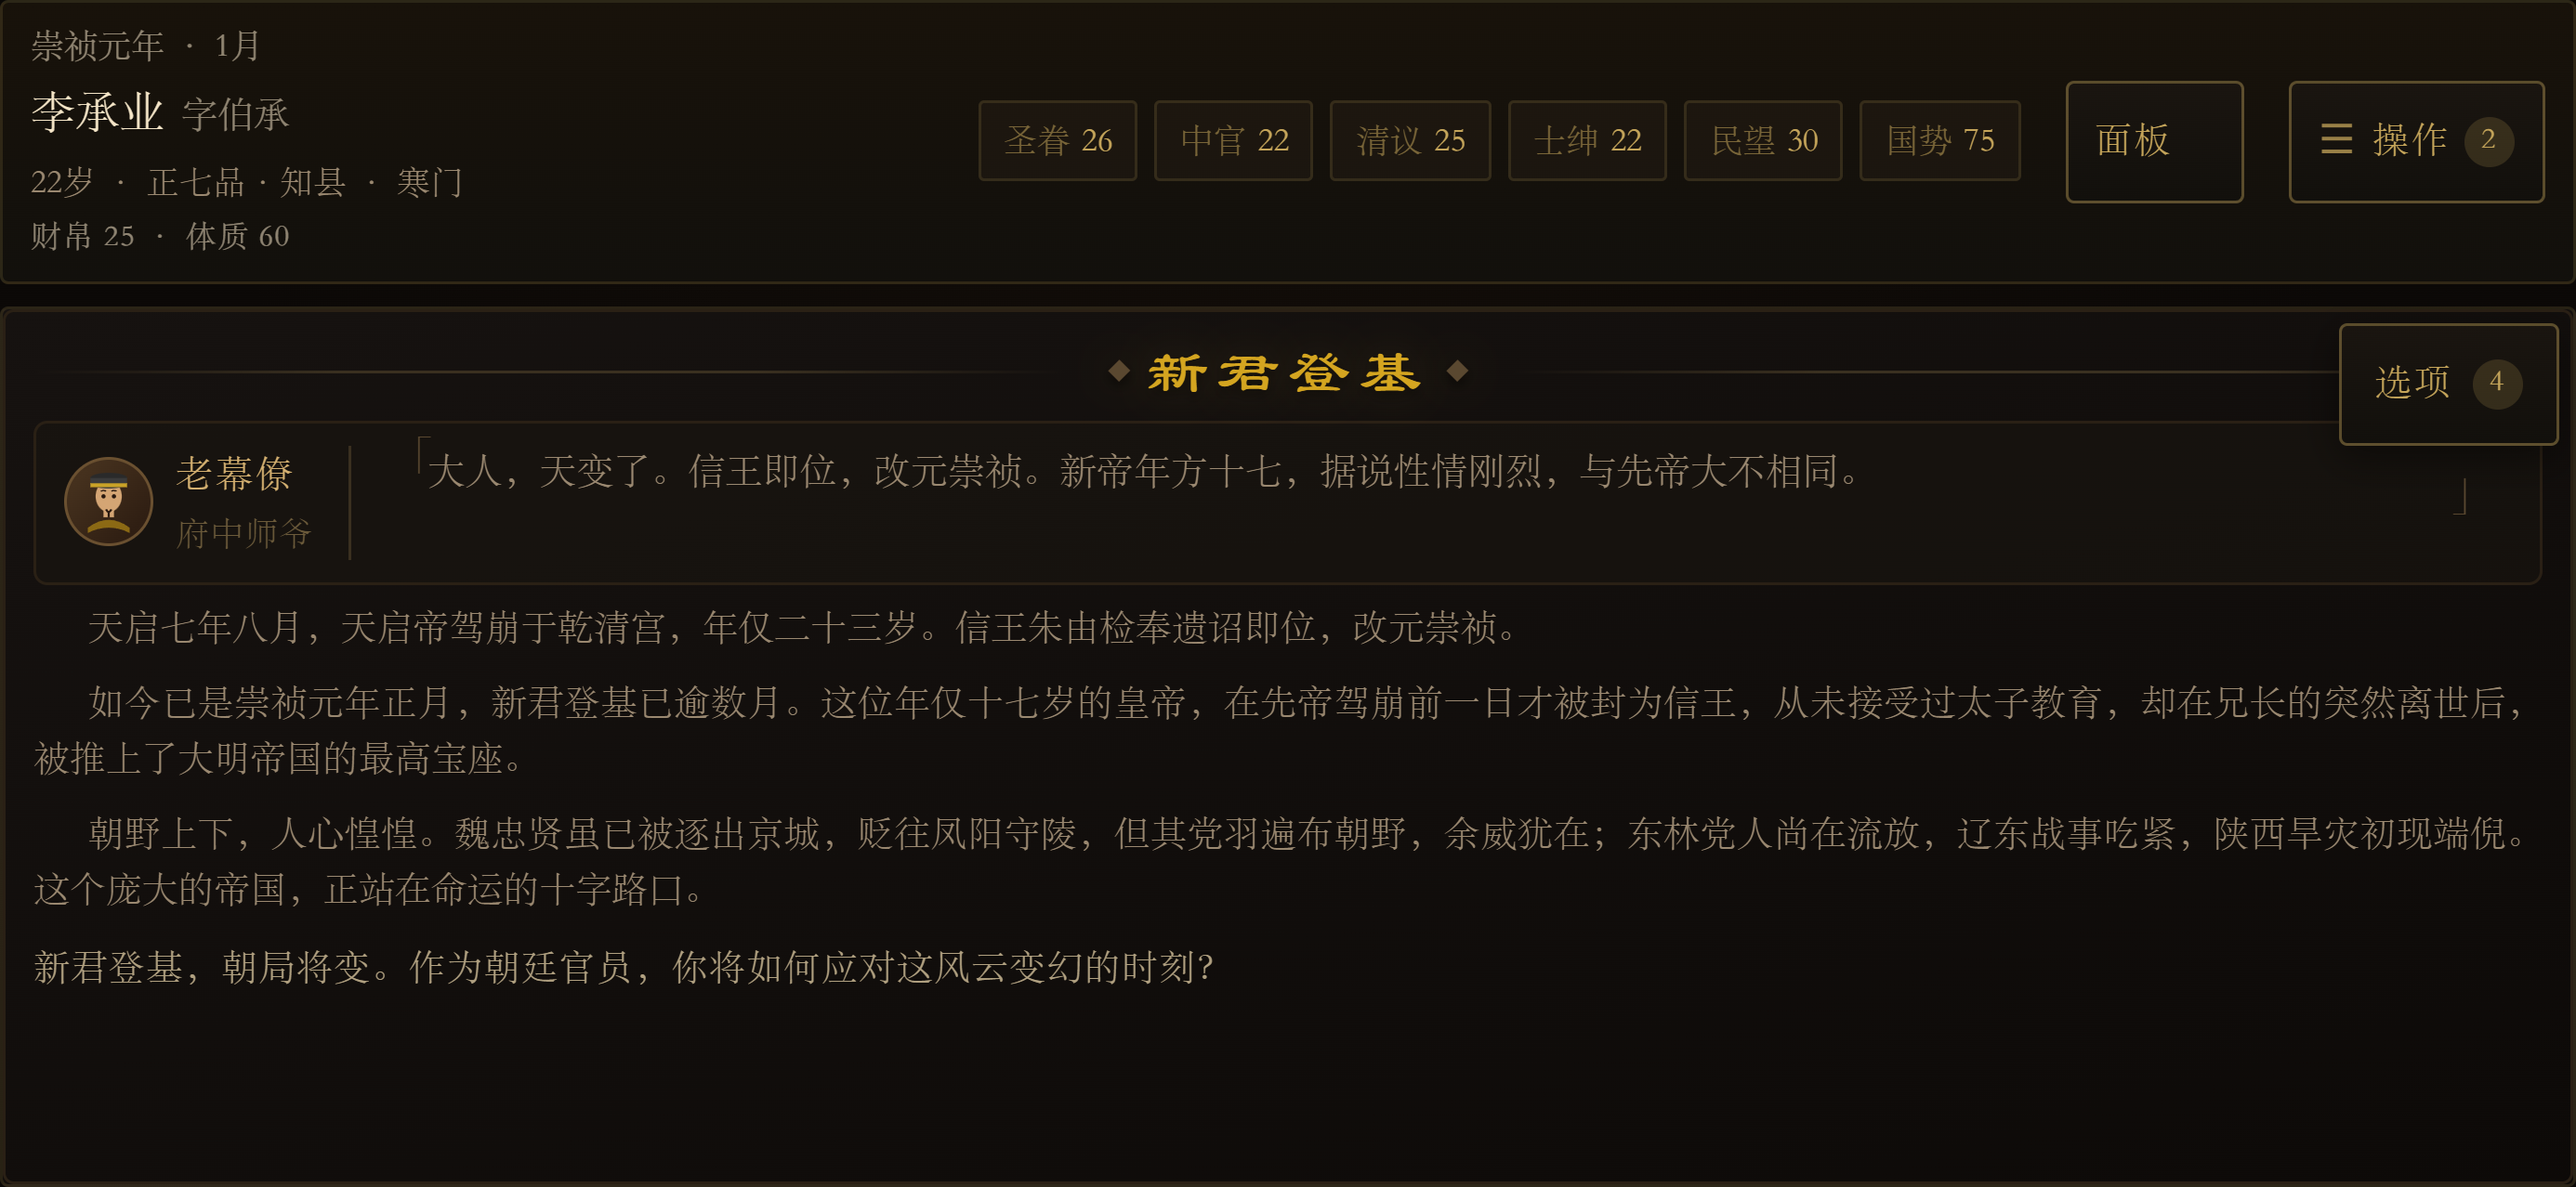
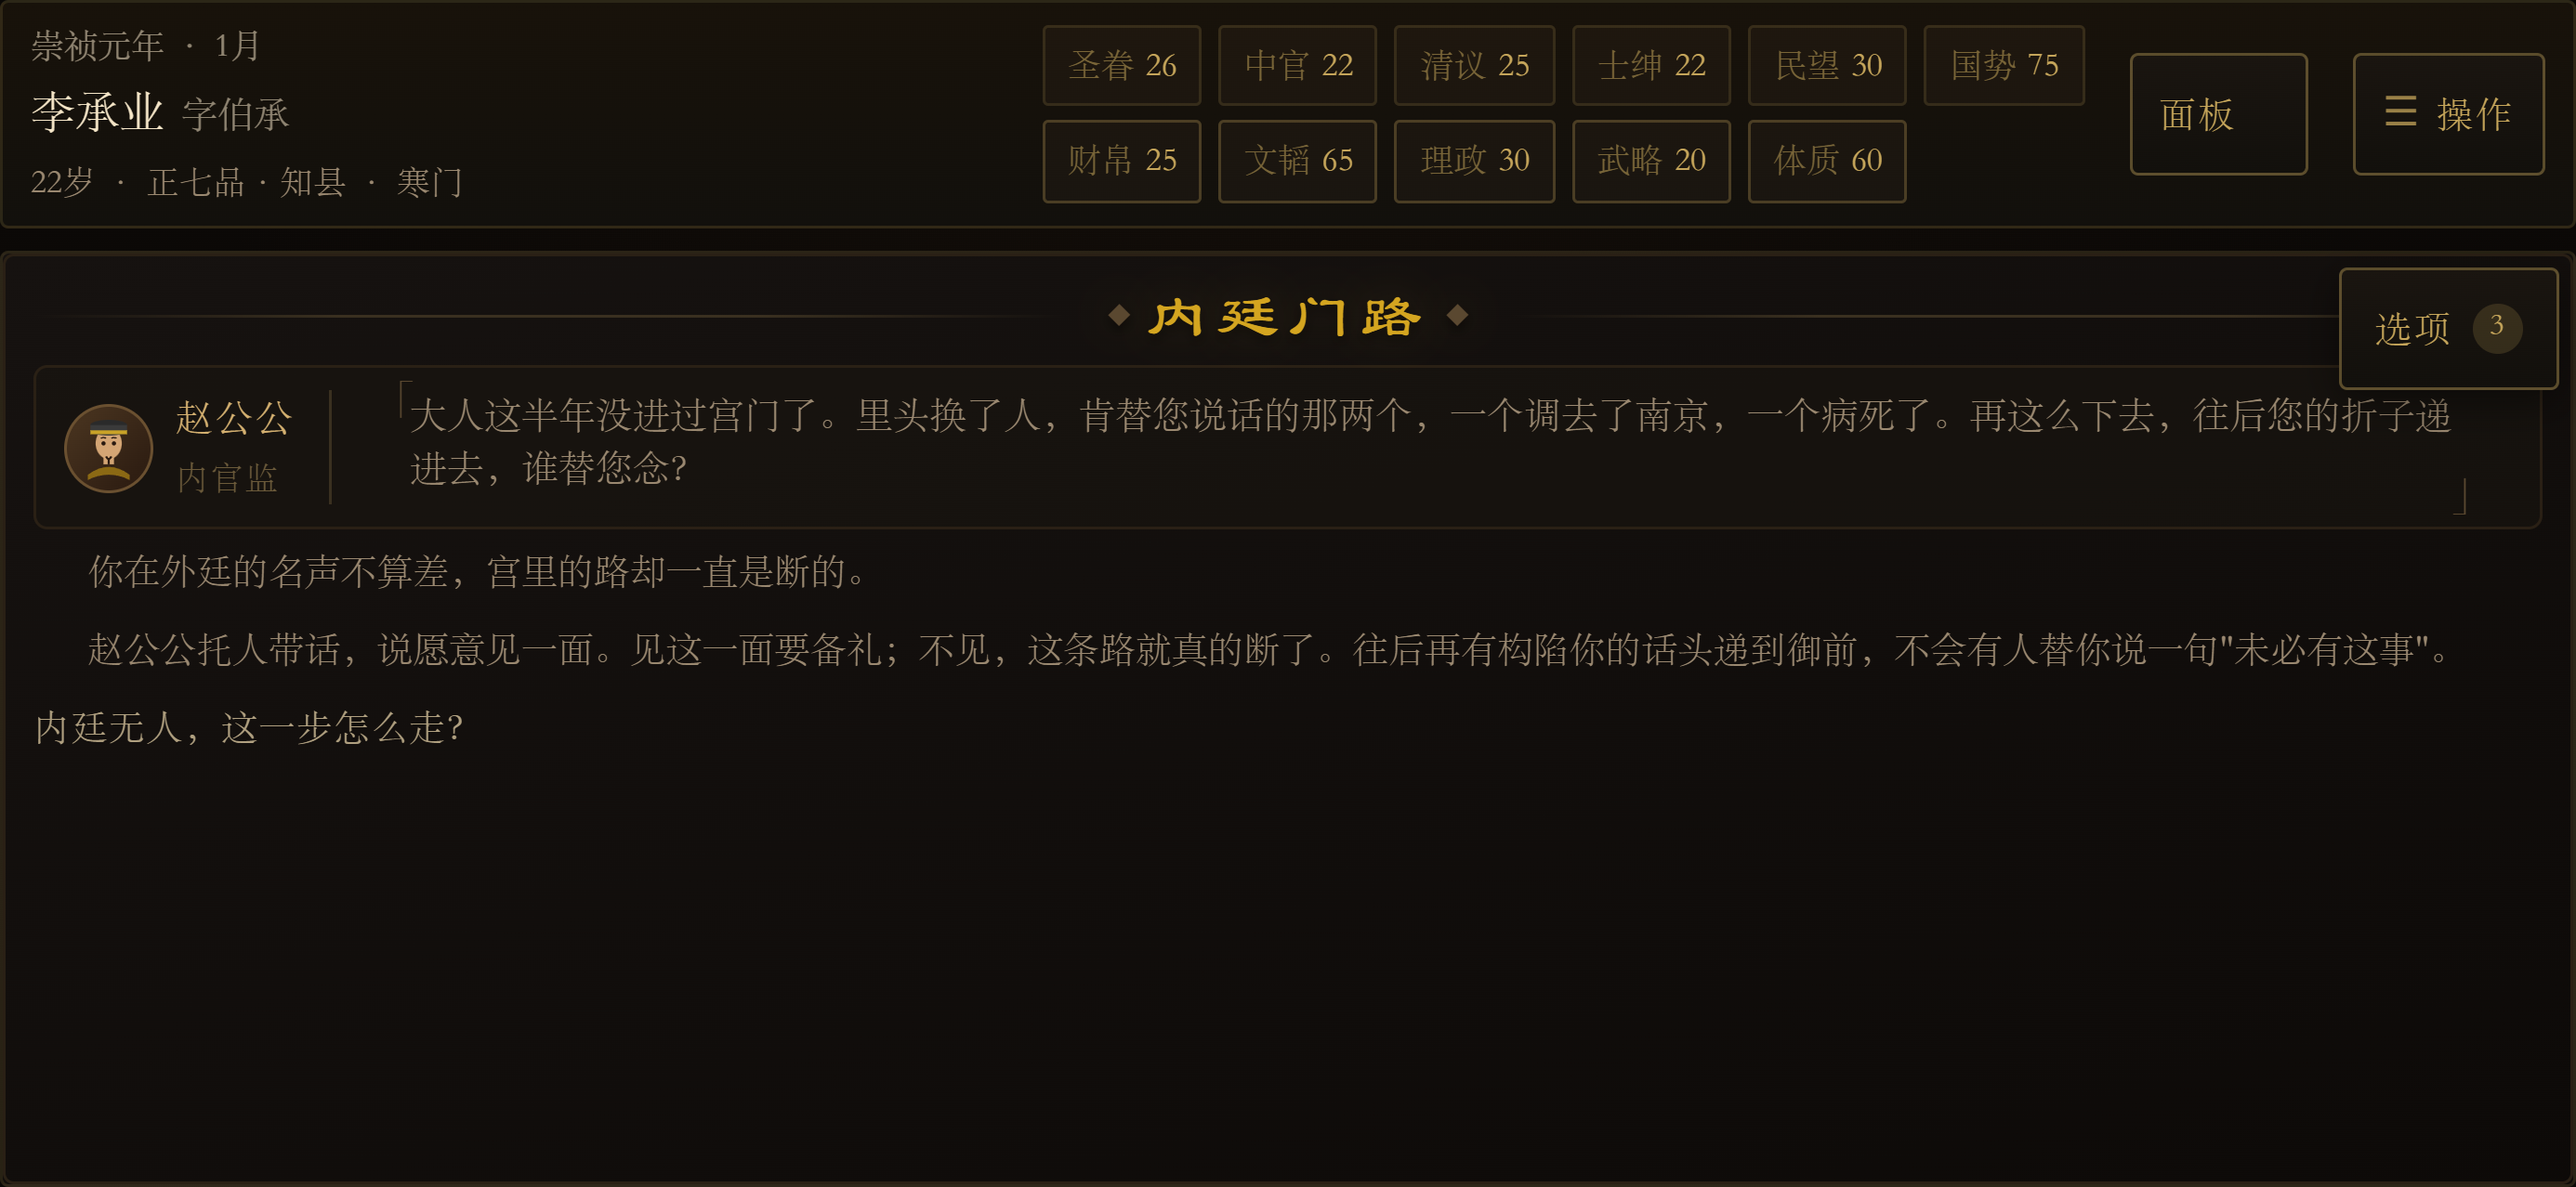
手机版HUD在圣眷下排开五项个人能力

diff --git a/src/mobile/MobileBoard.tsx b/src/mobile/MobileBoard.tsx
@@ -41,6 +41,9 @@ const SIX_STATES: Array<keyof GameStateValues> = [
   '圣眷', '中官', '清议', '士绅', '民望', '国势'
 ]
 
+/** 个人五项能力，排在六项朝堂状态下面一行。 */
+const PERSONAL_ATTRIBUTES = ['财帛', '文韬', '理政', '武略', '体质'] as const
+
 export default function MobileBoard(props: MobileBoardProps) {
   const engine = useGameEngine(props)
   const {
@@ -165,18 +168,25 @@ export default function MobileBoard(props: MobileBoardProps) {
           <span className="mobile-hud__meta">
             {character.age}岁 · {character.rank || identityType} · {character.origin}
           </span>
-          <span className="mobile-hud__vitals">
-            财帛 {Math.round(character.attributes.财帛)} · 体质 {Math.round(character.attributes.体质)}
-          </span>
         </div>
 
-        <div className="mobile-hud__states" aria-label="五方态度与国势">
-          {SIX_STATES.map(key => (
-            <span key={key} className="mobile-state-capsule">
-              <span className="mobile-state-capsule__label">{key}</span>
-              <span className="mobile-state-capsule__value">{gameState[key]}</span>
-            </span>
-          ))}
+        <div className="mobile-hud__meters">
+          <div className="mobile-hud__states" aria-label="五方态度与国势">
+            {SIX_STATES.map(key => (
+              <span key={key} className="mobile-state-capsule">
+                <span className="mobile-state-capsule__label">{key}</span>
+                <span className="mobile-state-capsule__value">{gameState[key]}</span>
+              </span>
+            ))}
+          </div>
+          <div className="mobile-hud__personal" aria-label="个人能力">
+            {PERSONAL_ATTRIBUTES.map(key => (
+              <span key={key} className="mobile-state-capsule mobile-state-capsule--personal">
+                <span className="mobile-state-capsule__label">{key}</span>
+                <span className="mobile-state-capsule__value">{Math.round(character.attributes[key])}</span>
+              </span>
+            ))}
+          </div>
         </div>
 
         <button

diff --git a/src/mobile/mobile.css b/src/mobile/mobile.css
@@ -378,16 +378,25 @@ body.mobile-applied textarea {
   font-size: 12px;
   color: var(--color-text-secondary, #9a8870);
 }
-.mobile-shell .mobile-hud__vitals {
-  font-size: 11px;
-  color: var(--color-text-dim, rgba(245, 230, 200, 0.55));
-  letter-spacing: 0.5px;
+.mobile-shell .mobile-hud__meters {
+  display: flex;
+  flex-direction: column;
+  gap: 5px;
+  margin-left: auto;
 }
 .mobile-shell .mobile-hud__states {
   display: flex;
   flex-wrap: wrap;
   gap: 6px;
-  margin-left: auto;
+}
+.mobile-shell .mobile-hud__personal {
+  display: flex;
+  flex-wrap: wrap;
+  gap: 6px;
+}
+.mobile-shell .mobile-hud__personal .mobile-state-capsule--personal {
+  border-color: rgba(197, 165, 90, 0.28);
+  background: rgba(197, 165, 90, 0.04);
 }
 .mobile-shell .mobile-state-capsule {
   display: inline-flex;

diff --git a/docs/MOBILE_WEB.md b/docs/MOBILE_WEB.md
@@ -18,7 +18,7 @@
 | `src/mobile/MobileTitle.tsx` | 标题、开始、继续上次、难度三选 |
 | `src/mobile/MobileNameSetup.tsx` | 姓/名/字/年岁/籍贯；字与籍贯复用 `utils/naming.ts`，不复制生成规则 |
 | `src/mobile/MobileOriginSetup.tsx` | 出身卡网格，数据复用 `data/origins` |
-| `src/mobile/MobileBoard.tsx` | 牌桌：顶部 HUD（六项朝堂状态 + 财帛/体质速览 + 可开合人物面板）+ 中央事件区（**复用 `EventDisplay`**）+ 默认收起的底部操作条 + 结局/死亡/回顾宿主 |
+| `src/mobile/MobileBoard.tsx` | 牌桌：顶部 HUD（六项朝堂状态 + 五项个人能力第二排 + 可开合人物面板）+ 中央事件区（**复用 `EventDisplay`**）+ 默认收起的底部操作条 + 结局/死亡/回顾宿主 |
 | `src/mobile/mobile.css` | 全部选择器限定在 `.mobile-shell` / `.mobile-board` / `body.mobile-applied` 下，无全局覆盖 |
 | `tests/mobile-web.mjs` | 入口四规则 + 牌桌最小可用性的浏览器冒烟（退出码即结论） |
 
@@ -62,9 +62,11 @@
 - **默认收起**：顶栏「面板」按钮打开右侧抽屉，遮罩 / × 收起；点「操作」时面板自动关闭，两者不叠。
 - **能力页**：直接复用桌面 `AttributePanel`，含 **财帛 / 文韬 / 理政 / 武略 / 体质** 与
   **道德值 / 欲望值 / 野心值 / 机敏值 / 忠诚值**；不另写一套数值逻辑。
-- **态度页**：复用 `StatusPanel`，六项朝堂态度完整可见（HUD 仍保留速览）。
+- **态度页**：复用 `StatusPanel`，六项朝堂态度完整可见（HUD 同时保留六项状态与五项能力两排速览）。
 - **卷宗页**：`lifeRecords` 最近 30 条履历，标题 + 正文。
-- **速览**：HUD 身份栏追加「财帛 25 · 体质 60」，不用打开面板也能看到两个致命项。
+- **速览**：HUD 在六项朝堂状态下面新增第二排，完整排开 **财帛 / 文韬 / 理政 / 武略 / 体质**
+  五项个人能力，数值直接取 `character.attributes`，与「圣眷」左对齐。原先身份栏的
+  「财帛 N · 体质 N」文字速览已删除，避免重复占行。
 
 ## 强制横屏（2026-11-17）
 
@@ -80,7 +82,8 @@
 ## 已验证（本地 preview，844×390）
 
 - 进入手机版、HUD 六项状态齐全、PWA manifest 为 `orientation: landscape`、无横向溢出；
-- HUD 显示「财帛 25 · 体质 60」；点「面板」可打开人物面板，能力页含财帛/文韬/理政/武略/体质 +
+- HUD 六项状态齐全，第二排完整显示「财帛/文韬/理政/武略/体质」五项，且几何断言确认
+  该排在「圣眷」正下方、左边缘对齐；点「面板」可打开人物面板，能力页含五项 +
   道德值/欲望值/野心值/机敏值/忠诚值，态度页与卷宗页均可切换，× 可收起；
 - 事件标题区压成单行 h=27px；「选项 N」入口 79×44px；收起态正文底部不再显示选项；
   点开后抉择面板 0,0 844×390，scroll=client=390，四个选项无需下滑即可看全；关闭后入口恢复；
